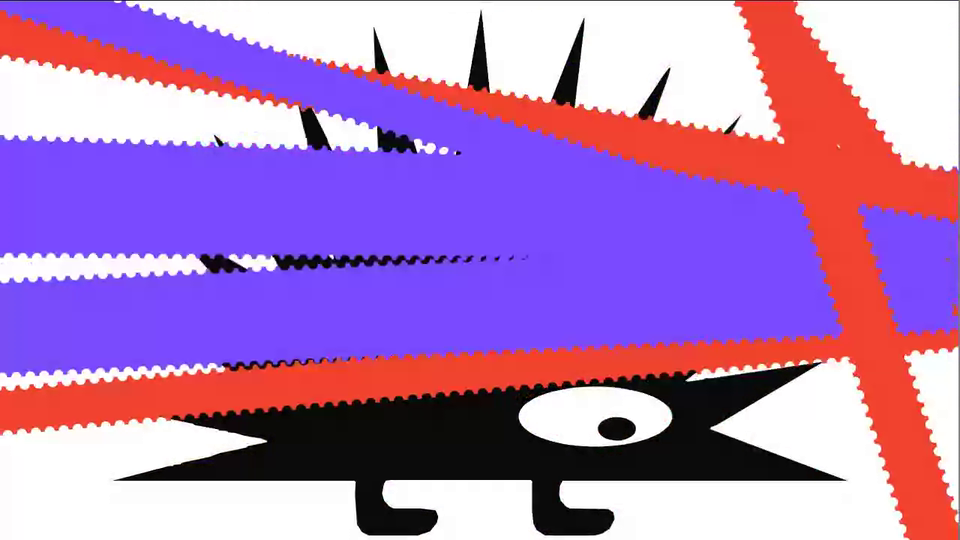
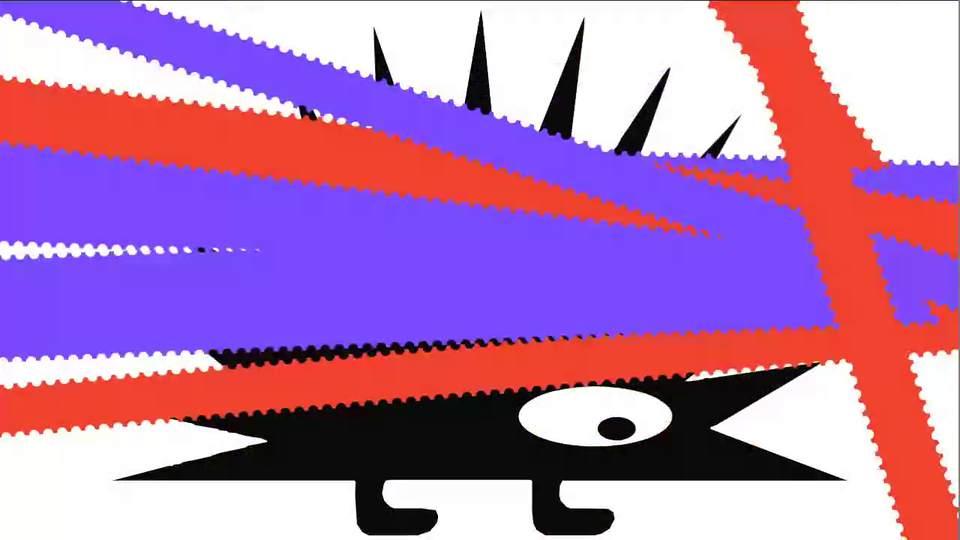
Porcupine Glitch: faster whip, bands zoom with an opening (#553)
* Add Porcupine Glitch: bare-quill porcupine under perforated bands filling ~68% of the screen

Claude-Session: https://claude.ai/code/session_01AHeBdxiyR9FJripaY1u8JF

* Porcupine Glitch: bands sweep in different directions, whip zooms into eye and quills, more porcupine visible

Claude-Session: https://claude.ai/code/session_01AHeBdxiyR9FJripaY1u8JF

* Porcupine Glitch: faster whip zoom, bands scale with the zoom and part around the focus, no stamp window

Claude-Session: https://claude.ai/code/session_01AHeBdxiyR9FJripaY1u8JF

---------

diff --git a/porcupine-glitch/index.html b/porcupine-glitch/index.html
@@ -82,24 +82,27 @@ function bandPath(ctx, L, th, pitch, r, shift) {
   for (let j = n - 1; j >= 0; j--) { const cx = x0 + (j + 0.5) * pitch + pitch * 0.5; ctx.lineTo(cx + r, th / 2); ctx.arc(cx, th / 2, r, 0, Math.PI, true); }
   ctx.closePath();
 }
-function paintBands(ctx, W, H, t, gain) {
-  const S = Math.min(W, H), D = Math.hypot(W, H), pitch = Math.max(16, S * 0.026), r = pitch * 0.36;
+function paintBands(ctx, W, H, t, gain, open) {
+  const S = Math.min(W, H), D = Math.hypot(W, H), pitch = Math.max(16, S * 0.026), r = pitch * 0.36, f = pSpace(W, H)(FOCI[cam(t).c]);
   for (let i = 0; i < BANDS.length; i++) {
     const s = bandState(i, t, W, H);
+    if (open > 0) { // the opening: every band that would cover the focus is pushed sideways until it clears a circle of radius 0.13 S around it
+      const nx = -Math.sin(s.a), ny = Math.cos(s.a), dn = (f[0] - s.x) * nx + (f[1] - s.y) * ny, need = s.th * S * gain / 2 + S * 0.13 * open, sg = dn >= 0 ? 1 : -1;
+      if (Math.abs(dn) < need) { const k = (need - Math.abs(dn)); s.x -= sg * nx * k; s.y -= sg * ny * k; }
+    }
     ctx.save(); ctx.translate(s.x, s.y); ctx.rotate(s.a); ctx.fillStyle = BANDS[i][0];
     bandPath(ctx, D * 2.6, s.th * S * gain, pitch, r, t * pitch * 24 * (i % 2 ? -1 : 1)); ctx.fill();
     ctx.restore();
   }
 }
 
-/* ===== the camera: wide, whip in on a section, hold a beat, whip out, repeat on the other section (3 s cycle, two per loop) ===== */
+/* ===== the camera: wide, whip in on a section, hold a beat, whip out, repeat on the other section (3 s cycle, two per loop; the whips take 0.12 s) ===== */
 const CYC = 3, ZMAX = 2.6, eio = (u) => { u = cl(u, 0, 1); return u < 0.5 ? 16 * u ** 5 : 1 - Math.pow(-2 * u + 2, 5) / 2; };
 const FOCI = [[647.8, 691.9], [434, 330]]; // the eye, then a fan of quills (porcupine coordinates)
 function cam(t) {
   t = ((t % PERIOD) + PERIOD) % PERIOD; const c = Math.floor(t / CYC), u = t % CYC; let p = 0, whip = false;
-  if (u >= 1.1 && u < 1.35) { p = eio((u - 1.1) / 0.25); whip = true; } else if (u >= 1.35 && u < 2.45) p = 1; else if (u >= 2.45 && u < 2.7) { p = 1 - eio((u - 2.45) / 0.25); whip = true; }
-  const o = easeOut((u - 1.4) / 0.15) * (1 - cl((u - 2.4) / 0.07, 0, 1)); // the perforated window that keeps the porcupine clear during the hold
-  return { c, p, o, whip };
+  if (u >= 1.15 && u < 1.27) { p = eio((u - 1.15) / 0.12); whip = true; } else if (u >= 1.27 && u < 2.45) p = 1; else if (u >= 2.45 && u < 2.57) { p = 1 - eio((u - 2.45) / 0.12); whip = true; }
+  return { c, p, whip };
 }
 function pSpace(W, H) { const sc = Math.min(W / 940, H / 700) * 1.02; return (q) => [W / 2 + (q[0] - 500) * sc, H / 2 + (q[1] - 508) * sc]; }
 function camXf(ctx, W, H, t) {
@@ -107,24 +110,18 @@ function camXf(ctx, W, H, t) {
   ctx.translate(lerp(f[0], W / 2, p), lerp(f[1], H / 2, p)); ctx.scale(z, z); ctx.translate(-f[0], -f[1]); return f;
 }
 function scene(ctx, W, H, t, gain) {
-  const S = Math.min(W, H), { o } = cam(t);
   ctx.save(); ctx.fillStyle = WHITE; ctx.fillRect(0, 0, W, H);
-  const f = camXf(ctx, W, H, t);
-  drawPorcupine(ctx, W, H, t); paintBands(ctx, W, H, t, gain);
-  if (o > 0.01) { // porcupine seen through a perforated stamp-shaped window, bands all round it
-    const pitch = Math.max(16, S * 0.026);
-    ctx.save(); ctx.translate(f[0], f[1]); ctx.rotate(-0.09); bandPath(ctx, S * 0.4 * o, S * 0.27 * o, pitch, pitch * 0.36, 0); ctx.rotate(0.09); ctx.translate(-f[0], -f[1]);
-    ctx.clip(); ctx.fillStyle = WHITE; ctx.fillRect(0, 0, W, H); drawPorcupine(ctx, W, H, t); ctx.restore();
-  }
+  camXf(ctx, W, H, t);
+  drawPorcupine(ctx, W, H, t); paintBands(ctx, W, H, t, gain, cam(t).p); // the bands scale up with the camera, and part around the focus as it lands
   ctx.restore();
 }
 
-/* band thickness is scaled every frame so the bands always fill TARGET of the screen (solved on a tiny offscreen render, camera included) */
+/* band thickness is scaled every frame so the bands always fill TARGET of the screen (solved on a tiny offscreen render of the wide shot; the zoom then scales the bands with the picture) */
 const TARGET = 0.55, probe = document.createElement('canvas'), pc = probe.getContext('2d', { willReadFrequently: true });
 function solveGain(t, W, H) {
   const pw = 72, ph = Math.max(24, Math.round(pw * H / W)); probe.width = pw; probe.height = ph;
   const k = pw / W, cover = (g) => {
-    pc.setTransform(1, 0, 0, 1, 0, 0); pc.clearRect(0, 0, pw, ph); pc.setTransform(k, 0, 0, k, 0, 0); pc.save(); camXf(pc, W, H, t); paintBands(pc, W, H, t, g); pc.restore();
+    pc.setTransform(1, 0, 0, 1, 0, 0); pc.clearRect(0, 0, pw, ph); pc.setTransform(k, 0, 0, k, 0, 0); paintBands(pc, W, H, t, g, 0);
     const d = pc.getImageData(0, 0, pw, ph).data; let n = 0; for (let i = 3; i < d.length; i += 4) if (d[i] > 127) n++; return n / (pw * ph);
   };
   let lo = 0.2, hi = 3; for (let j = 0; j < 7; j++) { const g = (lo + hi) / 2; if (cover(g) < TARGET) lo = g; else hi = g; } return (lo + hi) / 2;
@@ -138,7 +135,7 @@ function render(t) {
   if (!W) return;
   const gain = solveGain(t, W, H), n = cam(t).whip ? 8 : 1; // motion blur on the whips: average of 8 sub-frames
   ctx.setTransform(dpr, 0, 0, dpr, 0, 0);
-  for (let j = 0; j < n; j++) { ctx.globalAlpha = 1 / (j + 1); scene(ctx, W, H, t - j * 0.005, gain); }
+  for (let j = 0; j < n; j++) { ctx.globalAlpha = 1 / (j + 1); scene(ctx, W, H, t - j * 0.009, gain); }
   ctx.globalAlpha = 1;
 }
 let clock = HP.has('from') ? +HP.get('from') : 0, last = performance.now(), playing = true;
